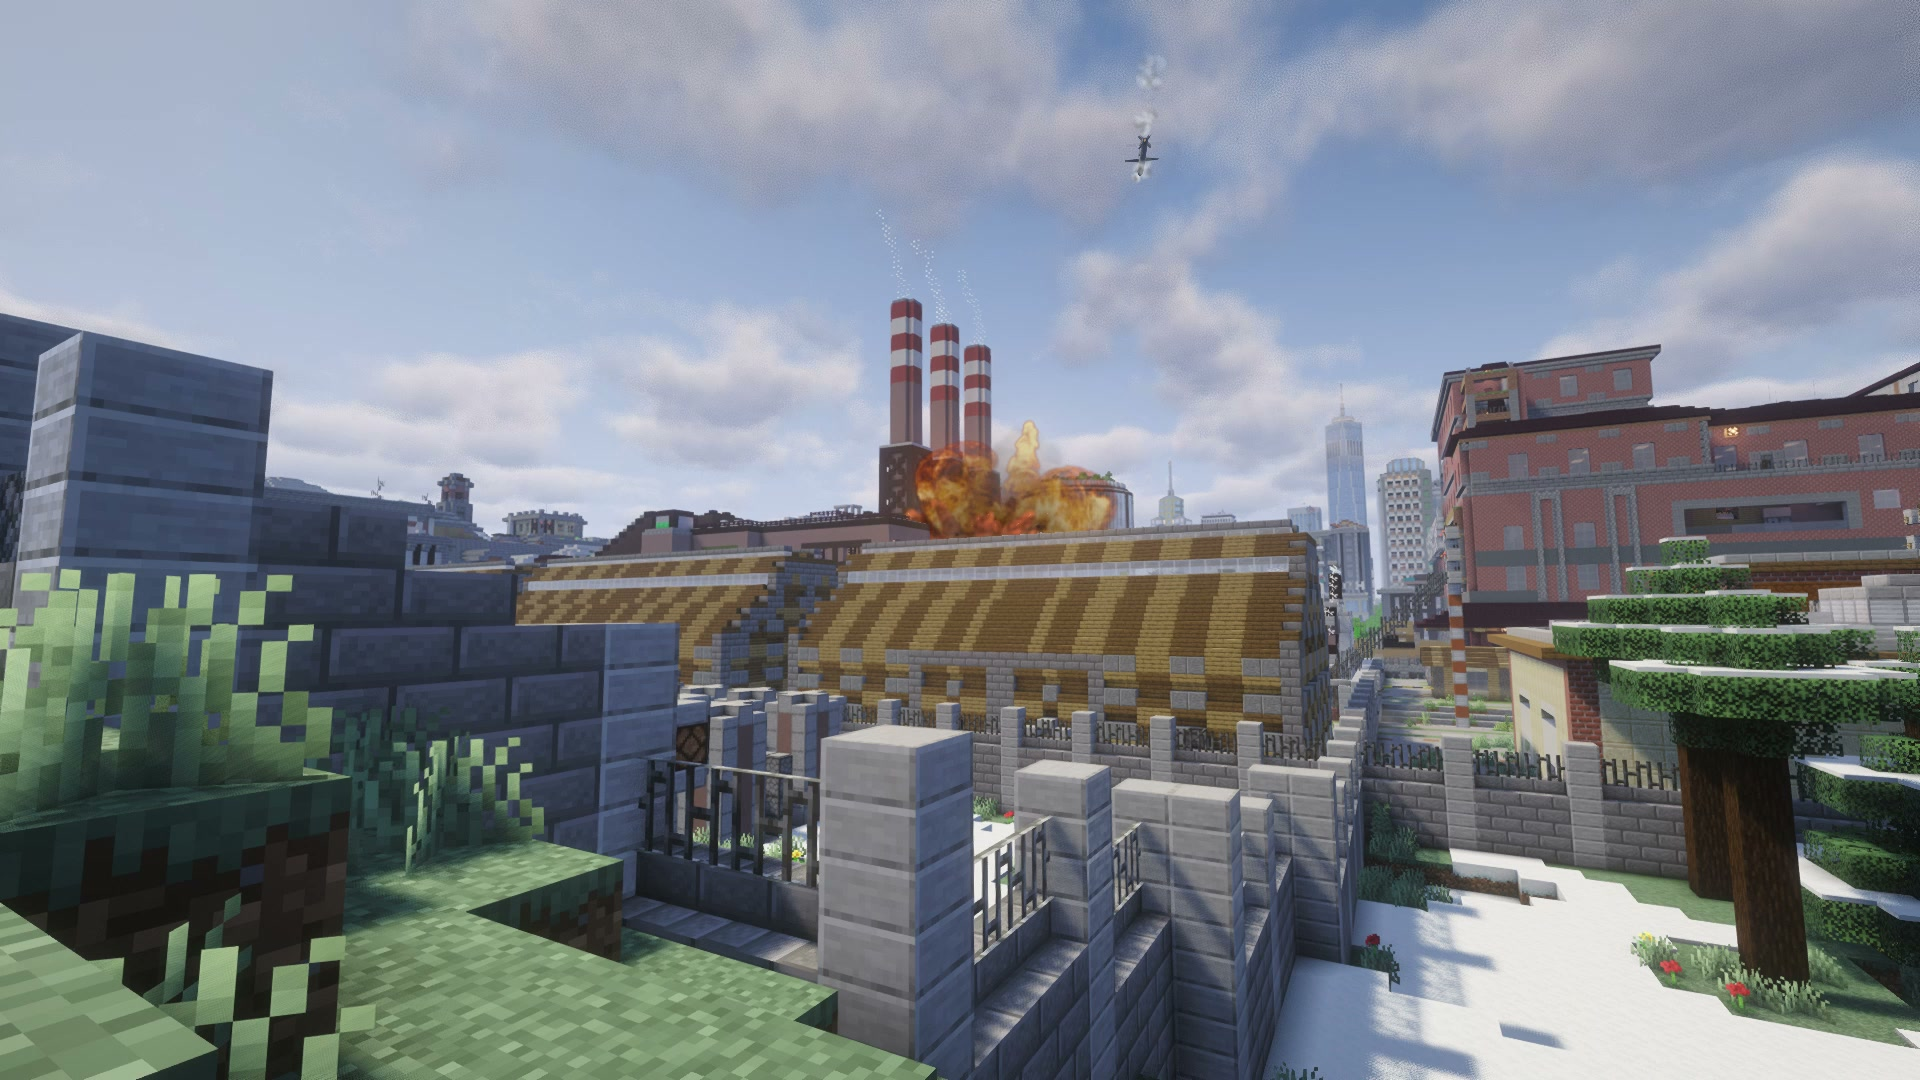
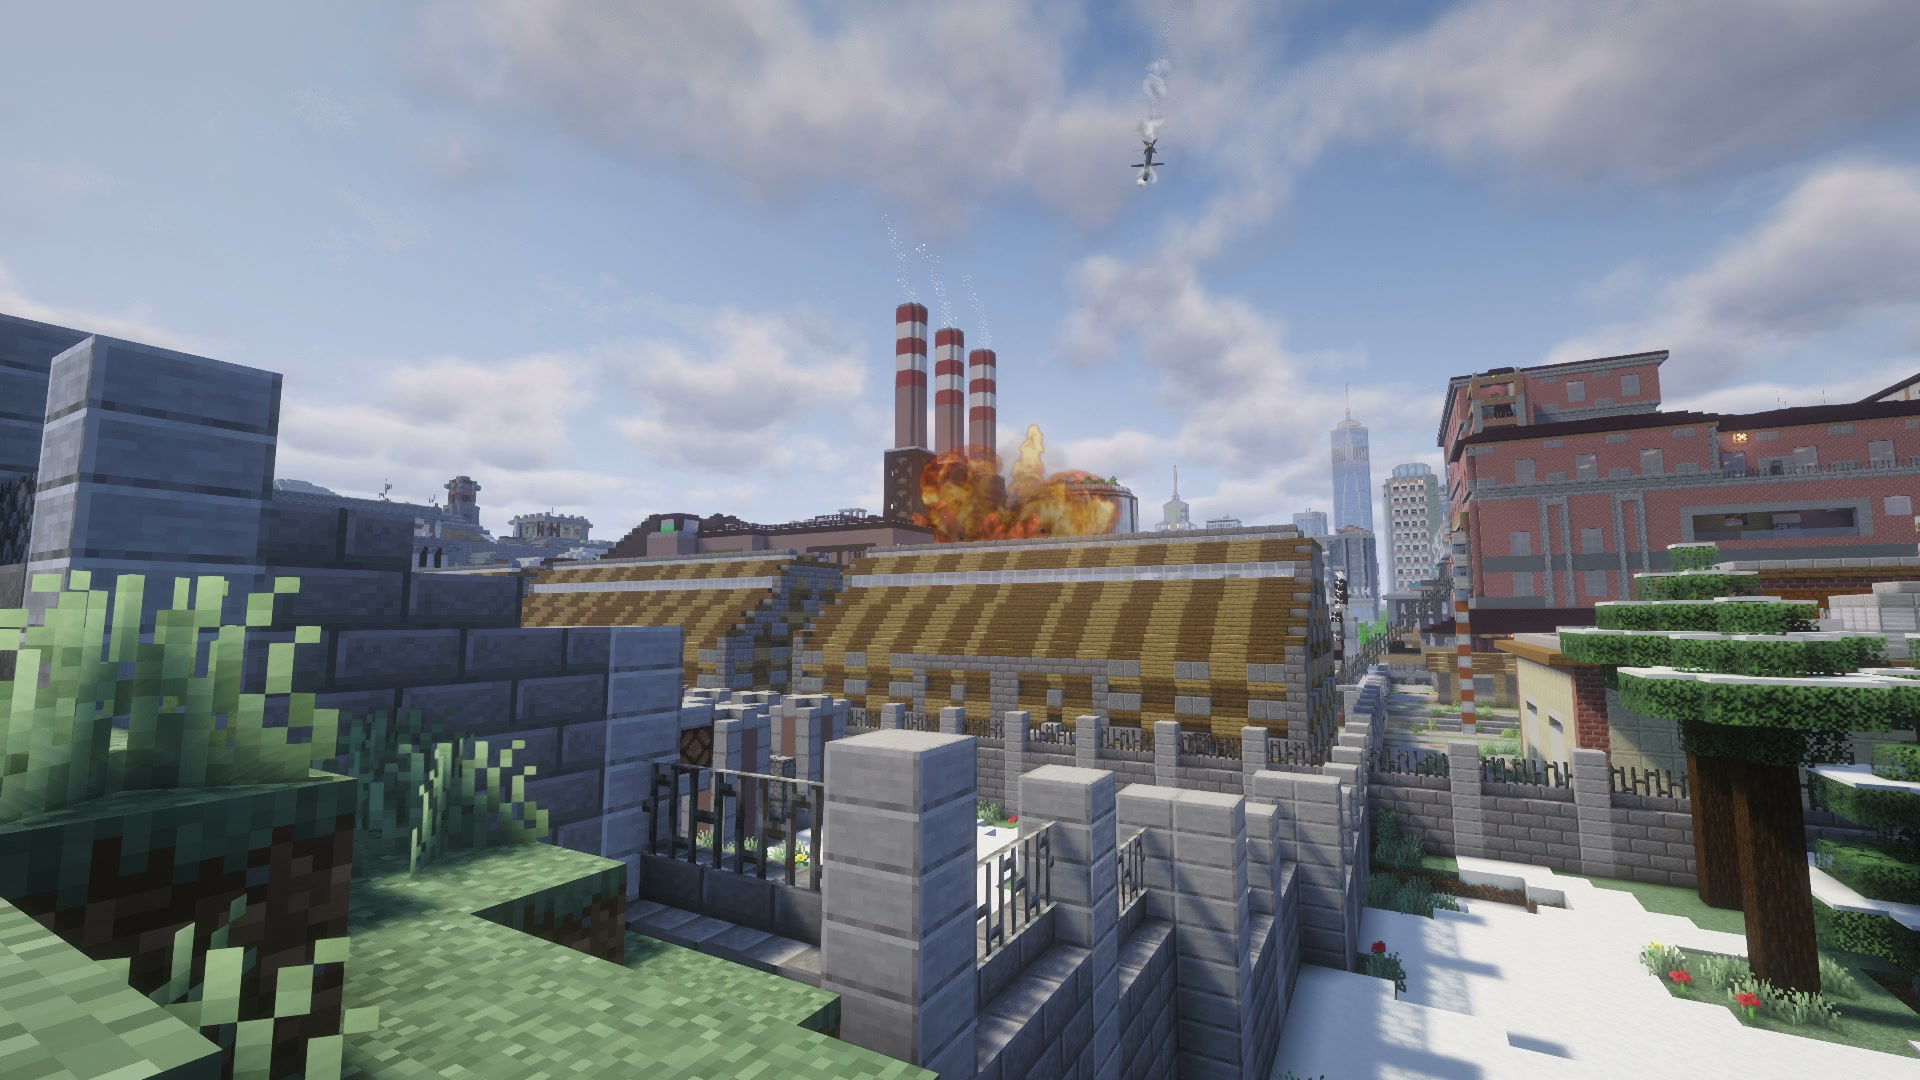
Keep fixed media cameras steady and preserve gallery captions

diff --git a/.github/scripts/test_store_body.py b/.github/scripts/test_store_body.py
@@ -63,7 +63,8 @@ class StoreBodyTest(unittest.TestCase):
         self.assertLessEqual(len(metadata["description"]), 256)
 
     def run_page(self, exists, missing_translation=False, with_gallery=False,
-                 duplicate_remote=False, duplicate_same_url=False, duplicate_local=False, repeat=False):
+                 duplicate_remote=False, duplicate_same_url=False, duplicate_local=False, repeat=False,
+                 duplicate_index=0):
         """Exercise the real page script against a loopback-only fake store."""
         writes = []
         gallery = []
@@ -97,12 +98,13 @@ class StoreBodyTest(unittest.TestCase):
                 if urlsplit(self.path).path.endswith("/gallery"):
                     if not self.valid_gallery_query():
                         return
-                    writes.append({"method": "POST", "path": self.path})
                     query = parse_qs(urlsplit(self.path).query)
                     sha = hashlib.sha1(raw).hexdigest()
                     gallery.append({"url": f"https://cdn.example/{sha}.jpg",
                                     "raw_url": f"https://cdn.example/{sha}.jpg",
-                                    "title": query.get("title", [""])[0]})
+                                    "title": query.get("title", [""])[0],
+                                    "description": query.get("description", [""])[0]})
+                    writes.append({"method": "POST", "path": self.path, "stored": gallery[-1].copy()})
                     cdn_files.add(gallery[-1]["url"])
                     self.reply(204, {})
                     return
@@ -163,7 +165,7 @@ class StoreBodyTest(unittest.TestCase):
                 configured_gallery.append({"file": str(image), "description": ""})
                 gallery.append({"url": "https://cdn.example/obsolete.jpg", "featured": True, "ordering": 0})
                 if duplicate_remote:
-                    gallery.append(gallery[0] | {"url": "https://cdn.example/duplicate.jpg"})
+                    gallery.append(gallery[duplicate_index] | {"url": "https://cdn.example/duplicate.jpg"})
                 if duplicate_same_url:
                     gallery.append(gallery[0].copy())
                 if duplicate_local:
@@ -228,6 +230,16 @@ class StoreBodyTest(unittest.TestCase):
                    for w in writes[:boundary] if w.get("method") == "DELETE"]
         self.assertEqual(removed.count("https://cdn.example/optimized-0.jpg"), 2)
         self.assertEqual([w["method"] for w in writes[boundary + 1:] if "method" in w], ["PATCH"] * 4)
+
+    def test_duplicate_replacement_preserves_omitted_empty_and_null_captions(self):
+        for index in (1, 2):
+            with self.subTest(index=index):
+                result, writes = self.run_page(exists=True, with_gallery=True, duplicate_remote=True,
+                                              duplicate_index=index, repeat=True)
+                self.assertEqual(result.returncode, 0, result.stderr)
+                upload = next(w for w in writes if w.get("method") == "POST")
+                self.assertEqual(upload["stored"]["title"], "Old title")
+                self.assertEqual(upload["stored"]["description"], "Old description")
 
     def test_repository_gallery_has_unique_images_and_one_factory_approach(self):
         gallery = json.loads((STORE / "modrinth.json").read_text())["gallery"]

diff --git a/.claude/rules/client-scenario.md b/.claude/rules/client-scenario.md
@@ -13,7 +13,8 @@ paths:
 ## Page media
 - Use a fixed camera for each page clip: one position, direction and FOV throughout. Camera motion needs Artem's
   explicit request. Record with the normal full pack and shaderpack, then use Flashback's native keyframe and export;
-  derive stills from that same exported take.
+  derive stills from that same exported take. Disable camera shake in the filming copy for fixed shots: a single
+  HOLD key does not suppress the mod's impact shake. Check the exported position, angles and FOV as well as frames.
 - Factory shots are near ground level, looking slightly up, with about half sky and half target. Launch several
   missiles roughly 1.5 km behind the camera, through a waypoint above it, with a few dozen blocks of target spread.
   The clip must show missiles against the sky over the camera, their approach and impacts at different points.
